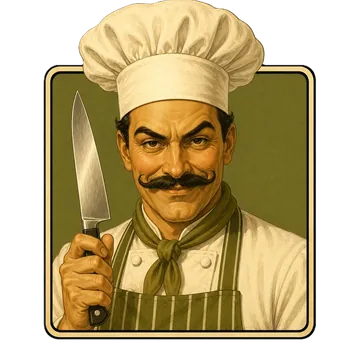
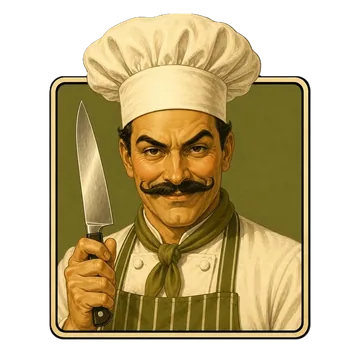
Card faces: name and type on top, a larger picture, flavour text beneath
The name band now heads the card with the card's type in small capitals
under it, centred in the space above the picture. The art is drawn 106% of
its box and anchored at the top so every painted frame's bottom edge lands
on the same line, with the flavour text centred in what is left below. No
rules between the bands and one flat surface behind everything, since the
art's margins are transparent. The zoom viewer's thumbnail placeholder is
cropped the same way and dropped once the master loads, so it can no longer
show through as a double image. Chef Olive is scaled 4% smaller about his
frame's foot so his hat clears the type label like everyone else's hair.

Changed region(s): [[0.1222, 0.0, 0.8861, 0.9472]]

diff --git a/client/src/components/Card.css b/client/src/components/Card.css
@@ -3,7 +3,7 @@
   /* Every card shares one shape, sized to the deck's tallest card (200×306). Height follows from the
      width via this ratio, so cards stay uniform at any width (gallery, pop-ups, the title scatter). */
   aspect-ratio: 200 / 306;
-  background: linear-gradient(180deg, #2b2540, #211c30);
+  background: #262038;
   border: 2px solid var(--accent, #c8a24a);
   border-radius: 12px;
   overflow: hidden;
@@ -25,62 +25,97 @@
   outline: none;
 }
 
-.card__art {
-  width: 100%;
-  flex: 1 1 auto; /* fill all the space above the body so every card lands at the same height */
-  min-height: 0;
-  background: #1b1f26;
-  border-bottom: 2px solid rgba(200, 162, 74, 0.5);
-  line-height: 0;
-  border-top-left-radius: 10px;
-  border-top-right-radius: 10px;
-  overflow: hidden; /* keep art inside the rounded top — no square corners poking past the frame */
+/* Name band across the top: the title with the card's type in small capitals just under it. A
+   fixed share of the card so the band's bottom edge (and so the art's top) sits at the same height
+   on all 120 cards. The title is one line: the longest, "Chancellor Charcoal", fits with room to
+   spare. No rule under the band — the art starts straight after. */
+.card__head {
+  /* The band is taller than the strip it occupies: it reaches ~12px down into the art's
+     transparent top margin (the negative margin hands that space back, so the picture does not
+     move), and the name + type block is centred in it — i.e. centred between the card's top edge
+     and where the art actually begins, rather than crammed against the top. */
+  flex: 0 0 13.4%;
+  margin-bottom: -6.1%; /* % of the card's width, like every vertical margin; ≈ 12px at 200px */
+  position: relative;
+  z-index: 1;
+  box-sizing: border-box;
+  display: flex;
+  flex-direction: column;
+  align-items: center;
+  justify-content: center;
+  padding: 0 0.4rem;
 }
 
-/* Override art fills the art box (cropping as needed); the procedural SVG scales to fit. */
+.card__art {
+  width: 100%;
+  flex: 1 1 auto; /* fill all the space between the name band and the body, so the art box is the same on every card */
+  min-height: 0;
+  position: relative;
+  /* no background of its own: the art's margins are transparent, so the card's surface runs
+     unbroken behind the name band, the picture and the text */
+  background: transparent;
+  line-height: 0;
+  overflow: hidden;
+}
+
+/* Override art is a square whose painted frame ends 94.3% of the way down (every card's art is
+   aligned to that line, see scripts/align_frames.py). Drawn 106% of the box's height and anchored
+   to its top, that frame edge lands exactly on the box's bottom edge, so the flavour text below
+   sits a fixed gap under the picture. Wider than the box, it is centred and the sides crop a little.
+   The procedural SVG scales to fit. */
 .card__override {
   display: block;
-  width: 100%;
-  height: 100%;
-  object-fit: cover;
+  position: absolute;
+  top: 0;
+  left: 50%;
+  height: 106%;
+  width: auto;
+  max-width: none;
+  transform: translateX(-50%);
 }
 
 .card__body {
   /* Fixed share of the card so the line between art and text sits at the same height on all 120
-     cards, whatever the title or phrase length. Long text is clamped rather than pushing it. */
-  flex: 0 0 35%;
+     cards, whatever the phrase length. Long text is clamped rather than pushing it. The flavour
+     text sits under the art and the card type is pinned to the bottom, with a little breathing room
+     below it. Kept as small as two lines of phrase allow, so the art above gets the rest. */
+  flex: 0 0 20%;
   box-sizing: border-box;
   overflow: hidden;
-  padding: 0.45rem 0.65rem 0.5rem;
+  /* the flavour text floats in the middle of whatever is left under the picture */
+  padding: 5px 0.55rem;
   text-align: center;
+  display: flex;
+  flex-direction: column;
+  justify-content: center;
 }
 
 .card__type {
   font-size: 0.6rem;
+  line-height: 1;
+  margin-top: 1px;
   letter-spacing: 0.22em;
   text-transform: uppercase;
   color: var(--muted, #9a93b3);
 }
 
 .card__title {
-  font-size: 1.05rem;
+  font-size: 0.92rem;
   font-weight: 700;
   color: var(--accent, #c8a24a);
-  margin: 0.1rem 0 0.2rem;
-  line-height: 1.15;
-  display: -webkit-box;
-  -webkit-line-clamp: 2;
-  -webkit-box-orient: vertical;
+  line-height: 1.1;
+  white-space: nowrap;
   overflow: hidden;
+  max-width: 100%;
 }
 
 .card__phrase {
-  font-size: 0.75rem;
+  font-size: 0.72rem;
   font-style: italic;
   color: #d9d3e6;
-  line-height: 1.25;
+  line-height: 1.22;
   display: -webkit-box;
-  -webkit-line-clamp: 3;
+  -webkit-line-clamp: 2;
   -webkit-box-orient: vertical;
   overflow: hidden;
 }

diff --git a/client/src/components/Card.tsx b/client/src/components/Card.tsx
@@ -1,3 +1,4 @@
+import { useState } from 'react';
 import type { AnyCard } from 'shared';
 import { CardArt } from '../render/cardArt';
 import { resolveOverride, resolveOverrideThumb } from '../render/overrides';
@@ -21,6 +22,10 @@ const TYPE_LABEL: Record<AnyCard['type'], string> = {
 export function Card({ card, zoomable = true, hiRes = false }: { card: AnyCard; zoomable?: boolean; hiRes?: boolean }) {
   const override = hiRes ? resolveOverride(card.id, card.type, card.title) : resolveOverrideThumb(card.id, card.type, card.title);
   const thumb = hiRes ? resolveOverrideThumb(card.id, card.type, card.title) : undefined;
+  // The cached thumbnail stands in behind the full-size file only until that file has arrived —
+  // once it has, the placeholder goes, so a stray pixel of it can never show around the master.
+  const [loaded, setLoaded] = useState(false);
+  const placeholder = thumb && thumb !== override && !loaded;
   const zoomProps = zoomable
     ? {
         role: 'button' as const,
@@ -40,20 +45,23 @@ export function Card({ card, zoomable = true, hiRes = false }: { card: AnyCard; 
     : {};
   return (
     <div className={`card card--${card.type}${zoomable ? ' card--zoomable' : ''}`} {...zoomProps}>
+      <div className="card__head">
+        <div className="card__title">{card.title}</div>
+        <div className="card__type">{TYPE_LABEL[card.type]}</div>
+      </div>
       <div
         className={`card__art${override ? ' card__art--img' : ''}`}
-        // While the full-size file downloads, the already-cached thumbnail stands in behind it.
-        style={thumb && thumb !== override ? { backgroundImage: `url(${thumb})`, backgroundSize: 'cover' } : undefined}
+        // While the full-size file downloads, the already-cached thumbnail stands in behind it,
+        // cropped exactly as the <img> will be (cover, centred) so the two never show as a double.
+        style={placeholder ? { backgroundImage: `url(${thumb})`, backgroundSize: 'auto 106%', backgroundPosition: 'center top' } : undefined}
       >
         {override ? (
-          <img src={override} alt={card.title} className="card__override" />
+          <img src={override} alt={card.title} className="card__override" onLoad={() => setLoaded(true)} />
         ) : (
           <CardArt card={card} />
         )}
       </div>
       <div className="card__body">
-        <div className="card__type">{TYPE_LABEL[card.type]}</div>
-        <div className="card__title">{card.title}</div>
         <div className="card__phrase">{card.phrase}</div>
       </div>
     </div>
